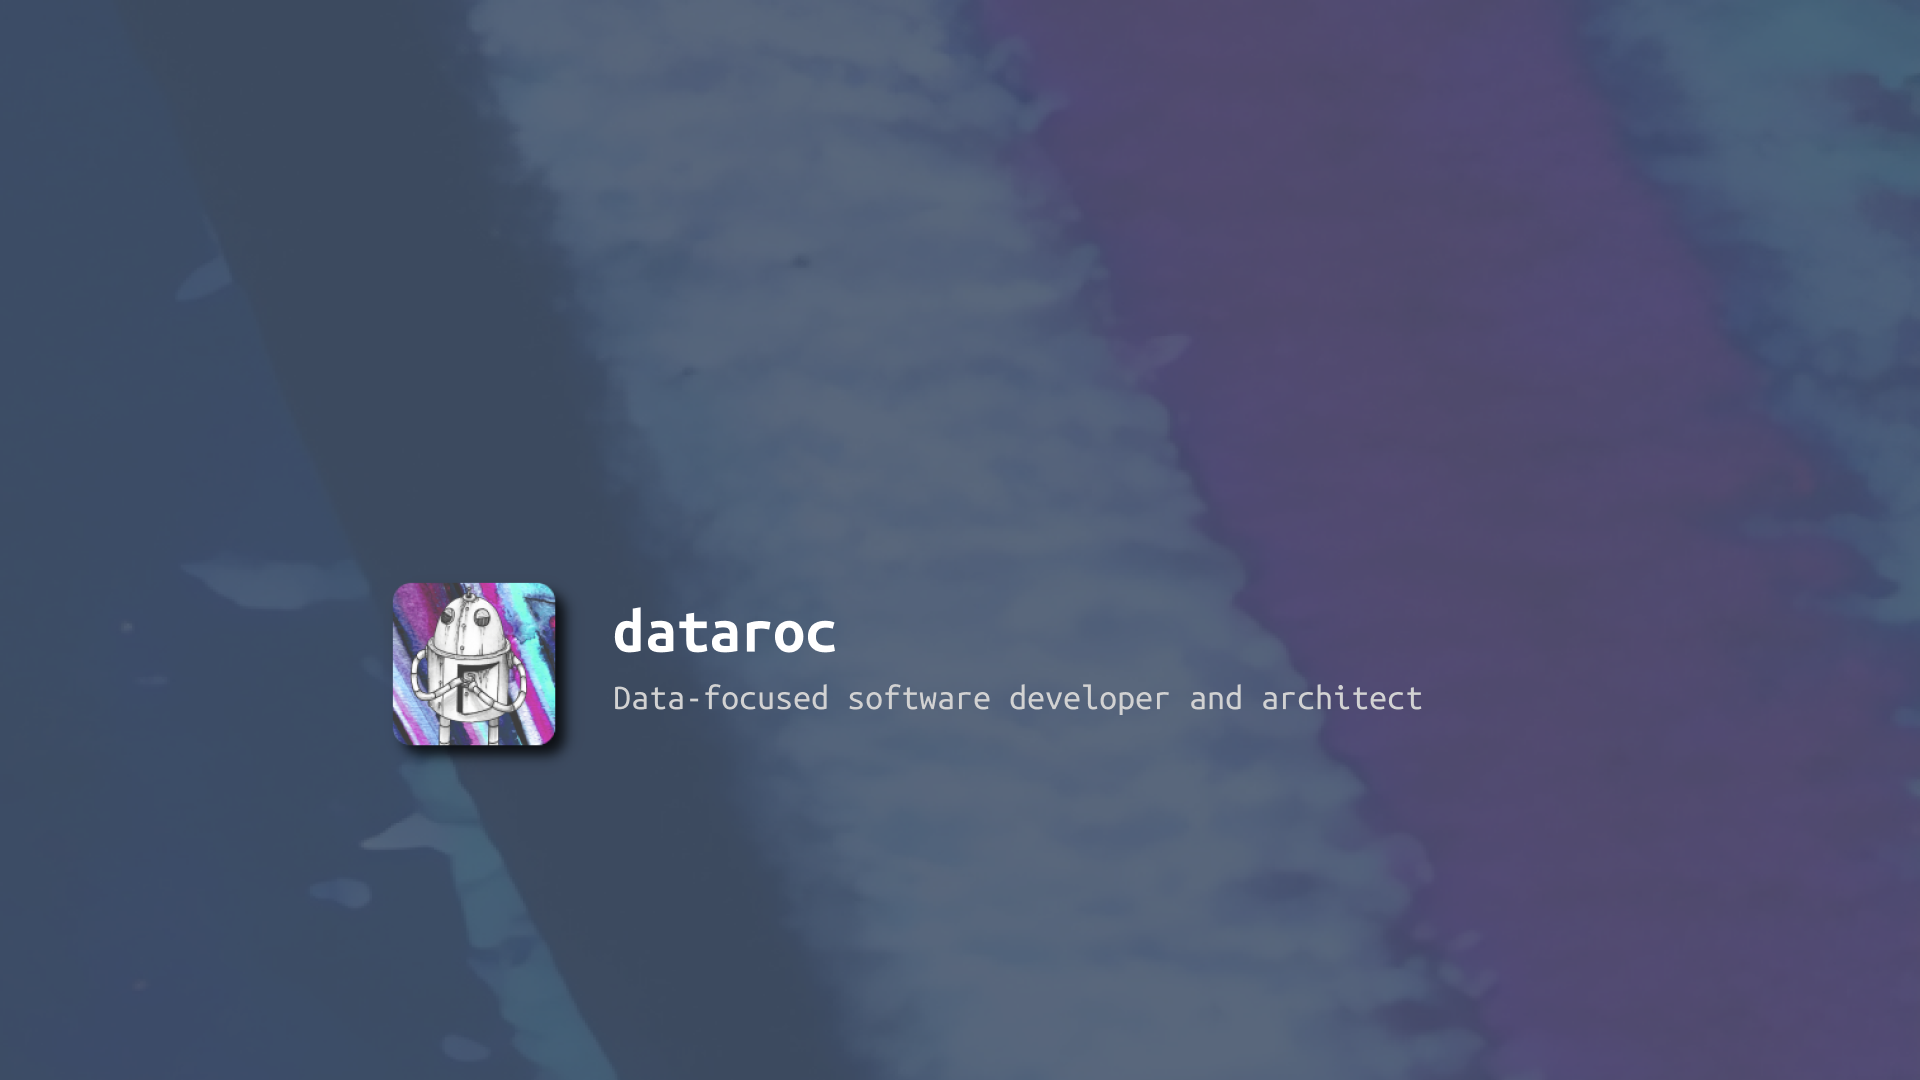
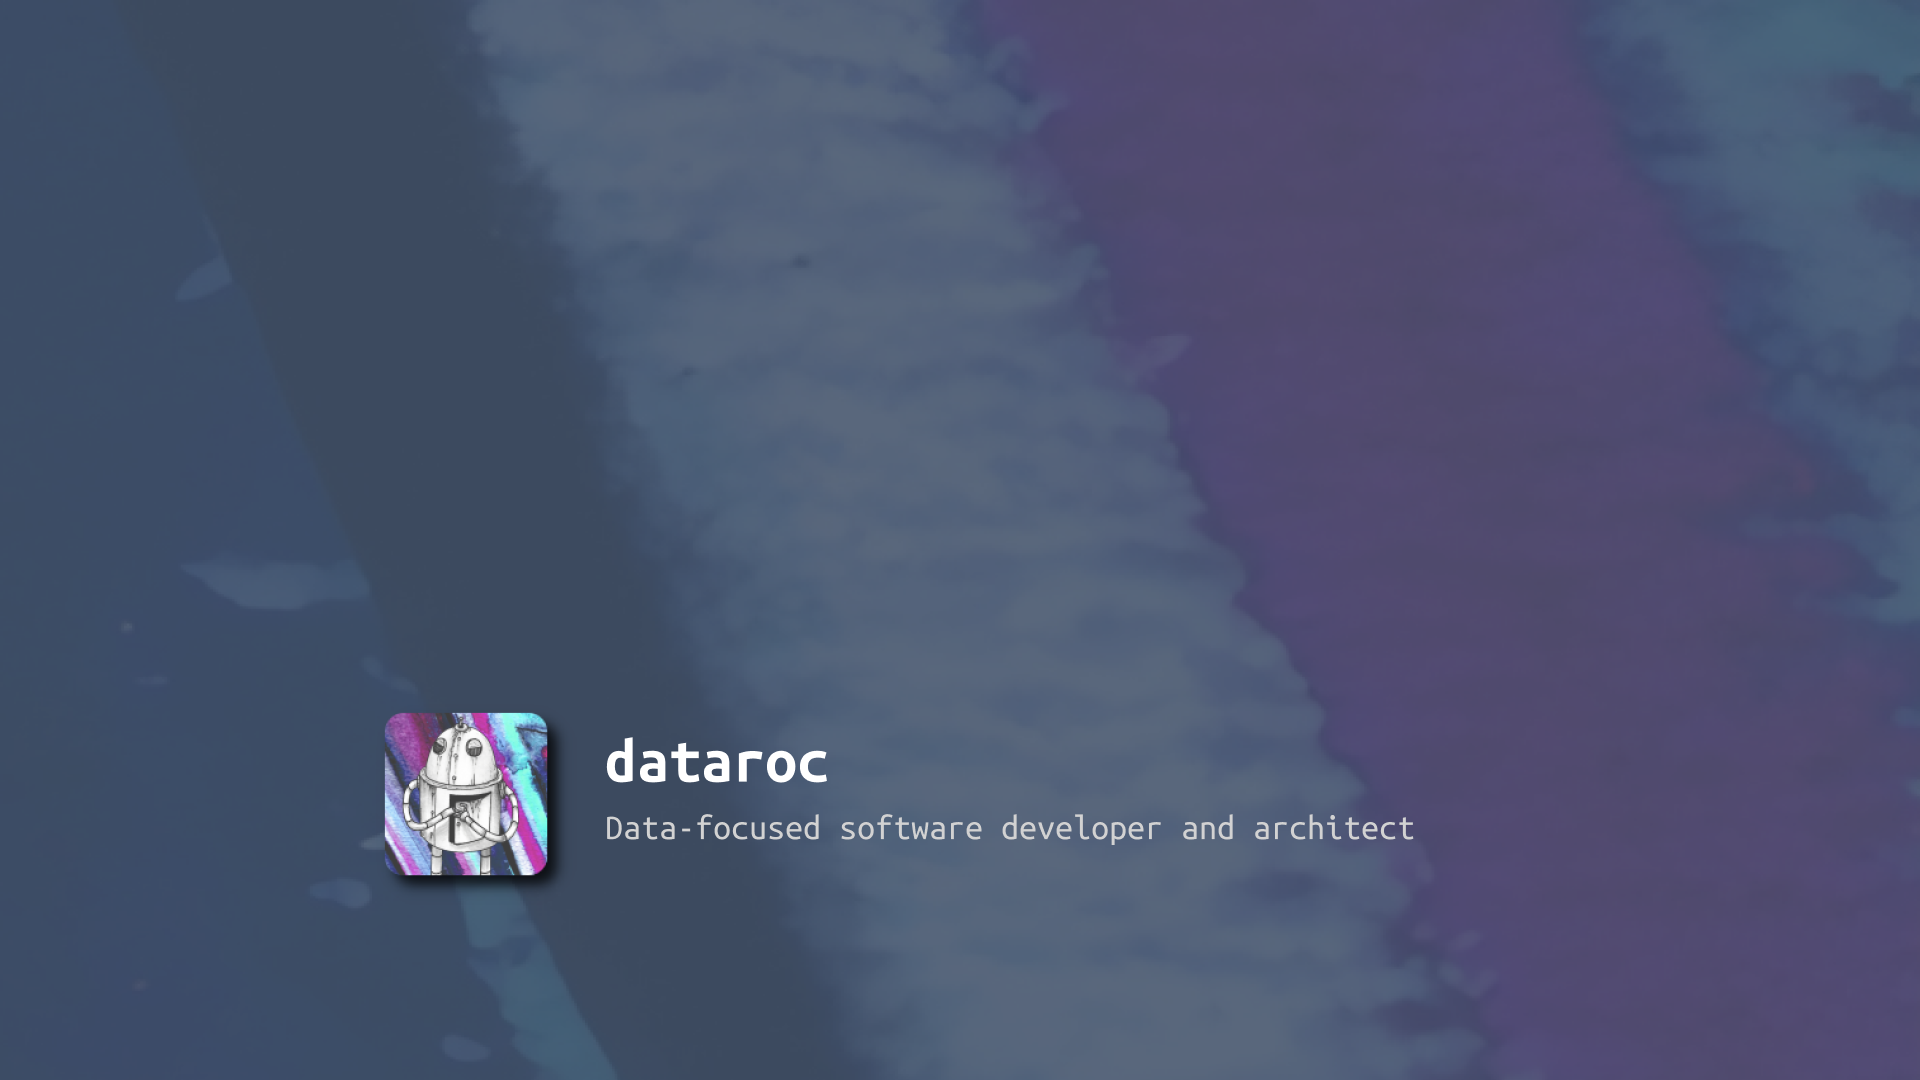
Styling fixes, og image with title adjustments

Changed region(s): [[0.1875, 0.5194, 0.75, 0.825]]

diff --git a/app/layout.tsx b/app/layout.tsx
@@ -26,11 +26,11 @@ export const metadata: Metadata = {
     url: 'https://dataroc.ca',
     siteName,
     images: [
-      // {
-      //   url: 'https://dataroc.ca/og.jpg',
-      //   width: 1920,
-      //   height: 1080,
-      // },
+      {
+        url: 'https://dataroc.ca/og-bg.png',
+        width: 1920,
+        height: 1080,
+      },
     ],
     locale: 'en-US',
     type: 'website',

diff --git a/app/og/route.tsx b/app/og/route.tsx
@@ -34,6 +34,7 @@ export async function GET(req: NextRequest) {
             marginLeft: 190,
             marginRight: 190,
             marginBottom: 300,
+            padding: '70px 0',
             display: 'flex',
             fontSize: 80,
             fontFamily: 'Fragment Mono',
